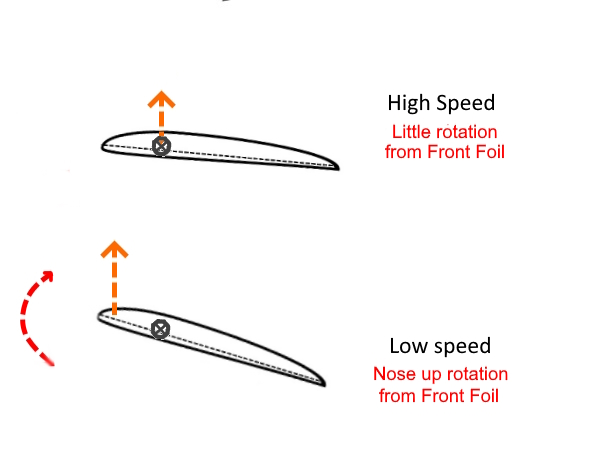
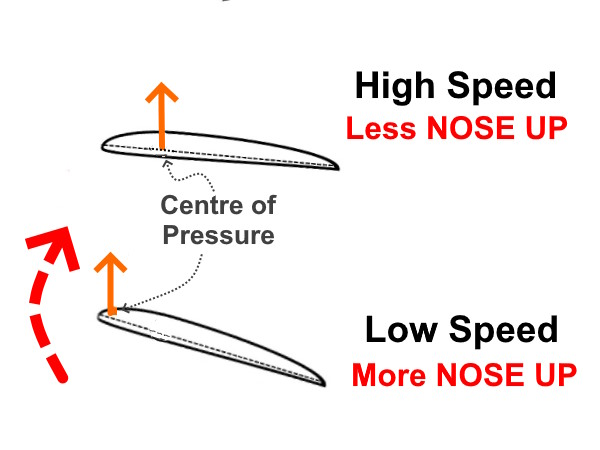
p

diff --git a/whatisahyrdofoil.html b/whatisahyrdofoil.html
@@ -127,7 +127,7 @@
 
           <h4>Speed vs Lift Coefficient</h4>
 
-        <p>Lift needs to equal weight at different speeds. However, without changing anything, more speed equals more lift, and less speed means less lift.</p>
+        <p>We don't just foil at one speed - Lift needs to equal weight at different speed. However, without changing anything, more speed equals more lift, and less speed means less lift.</p>
         <p>To compensate, the rider keeps total lift constant by varying the <i>Angle of Attack</i> to control the <i>Lift Coefficient</i> . At slow speeds a large <i>Angle of Attack</i> is required, and at high speeds a low <i>Angle of Attack</i>. So as a foil accelerates, the rider is required to lower the nose of the board to maintain the correct amount of lift.</p>
 
         <div id = "slowfast">
@@ -155,9 +155,9 @@
         <h4>High Speed control</h4>
         <p><i>Angle of Attack</i> is finely controlled by the rider. Too much and the foil produces too much lift</p>
         <p>Because lift increases as the square of speed, controlling the foil by adjusting <i>Angle of Attack</i> becomes much harder at high speed (for the foil) </p>
-        <p>For example, at 10kts changing the <i>Angle of Attack</i> by 1 degree might change Lift by 20%. But at 20kts, changing <i>Angle of Attack</i> by 1 degree changes Lift by 80%.</p>
+        <p>For example, at 10kts changing the <i>Angle of Attack</i> by 1 degree might change Lift by 10%. But at 20kts, changing <i>Angle of Attack</i> by 1 degree changes Lift by 40%.</p>
         <p>So, at 20kts the rider must be 4 times more precise with their <i>Angle of Attack</i> than at 10kts</p>
-        <p>There comes a speed where <i>Angle of Attack</i> control becomes impossible, even for the most gifted of riders</p>
+        <p>There comes a speed where <i>Angle of Attack</i> control requires such accuracy it becomes impossible, even for the most gifted of riders</p>
         
 
         <h4>Foil Size vs Speed</h4>

diff --git a/ridingafoil.html b/ridingafoil.html
@@ -109,9 +109,9 @@
       <div class = "diagrams">
         <img src = "highspeed.jpg" width="220px" height="220px" />
       </div>
-      
+       
         <p>We've just seen that the front foil will have a lower Angle of Attack at increased speed. </p>
-        <p>However, because the stabiliser is upside down, any decrease in Angle of Attack on the front wing INCREASES the Angle of Attack on the stabiliser.</p>
+        <p>However, because the stabiliser is an upside down hydrofoil, any decrease in Angle of Attack on the front wing INCREASES the Angle of Attack on the stabiliser.</p>
         <p>This, combined with extra speed (squared), increases the downward lift. This creates an extra NOSE UP rotation, moving the <i>Balance Point</i> forward.</p>
         <p>The foil setup (fuselage length, stabiliser size, shim) will affect how strong this effect is. More on this later.</p>
         
@@ -143,9 +143,10 @@
       </div>
       <div>
         <p>As the Angle of Attack changes on the front foil, the centre of lift changes.</p>
-        <p>The centre of lift moves forward at low speeds. The effect of this is to increase the NOSE UP rotation force.</p>
-        <p>You have probably noticed that just before you stall a foil it tends to pitch the nose even higher.</p>
-        <p>The profile of the foil will determine how strong this effect is. More on this later</p>
+        <p>The centre of lift moves forward at low speeds. The effect of this is to increase the NOSE UP rotation force. You have probably noticed that just before you stall a foil it tends to pitch the nose even higher.</p>
+        <p>The <i>CofP</i> can also move backward at high speed, resulting in NOSE DOWN</p>
+        <p>The profile of the foil will determine how strong these effects are.</p>
+        
     
       
     </div>

diff --git a/frontwingsandstabs.html b/frontwingsandstabs.html
@@ -44,9 +44,9 @@
         <p>A foiling setup consists of three parts (plus a mast to connect it to the board)</p>
 
         <ul>
-            <li><b>Front Foil</b> - this is a hydrofoil that lifts upward</li>
-            <li><b>Stabiliser</b> - this is a smaller hydrofoil that is upside down, and makes the foil setup more stable. It typically lifts downward at moderate and higher speeds, but can lift upward at very low speeds.</li>
-            <li><b>Fuselage</b> - this connects the front wing to the back wing</li>
+            <li class = "listmargin"><b>Front Foil</b> - this is a hydrofoil that lifts upward</li>
+            <li class = "listmargin"><b>Stabiliser</b> - this is a smaller hydrofoil that is upside down, and makes the foil setup more stable. It typically lifts downward at moderate and higher speeds, but can lift upward at very low speeds.</li>
+            <li class = "listmargin"><b>Fuselage</b> - this connects the front wing to the back wing</li>
         </ul>
 
         <div class = "diagrams">
